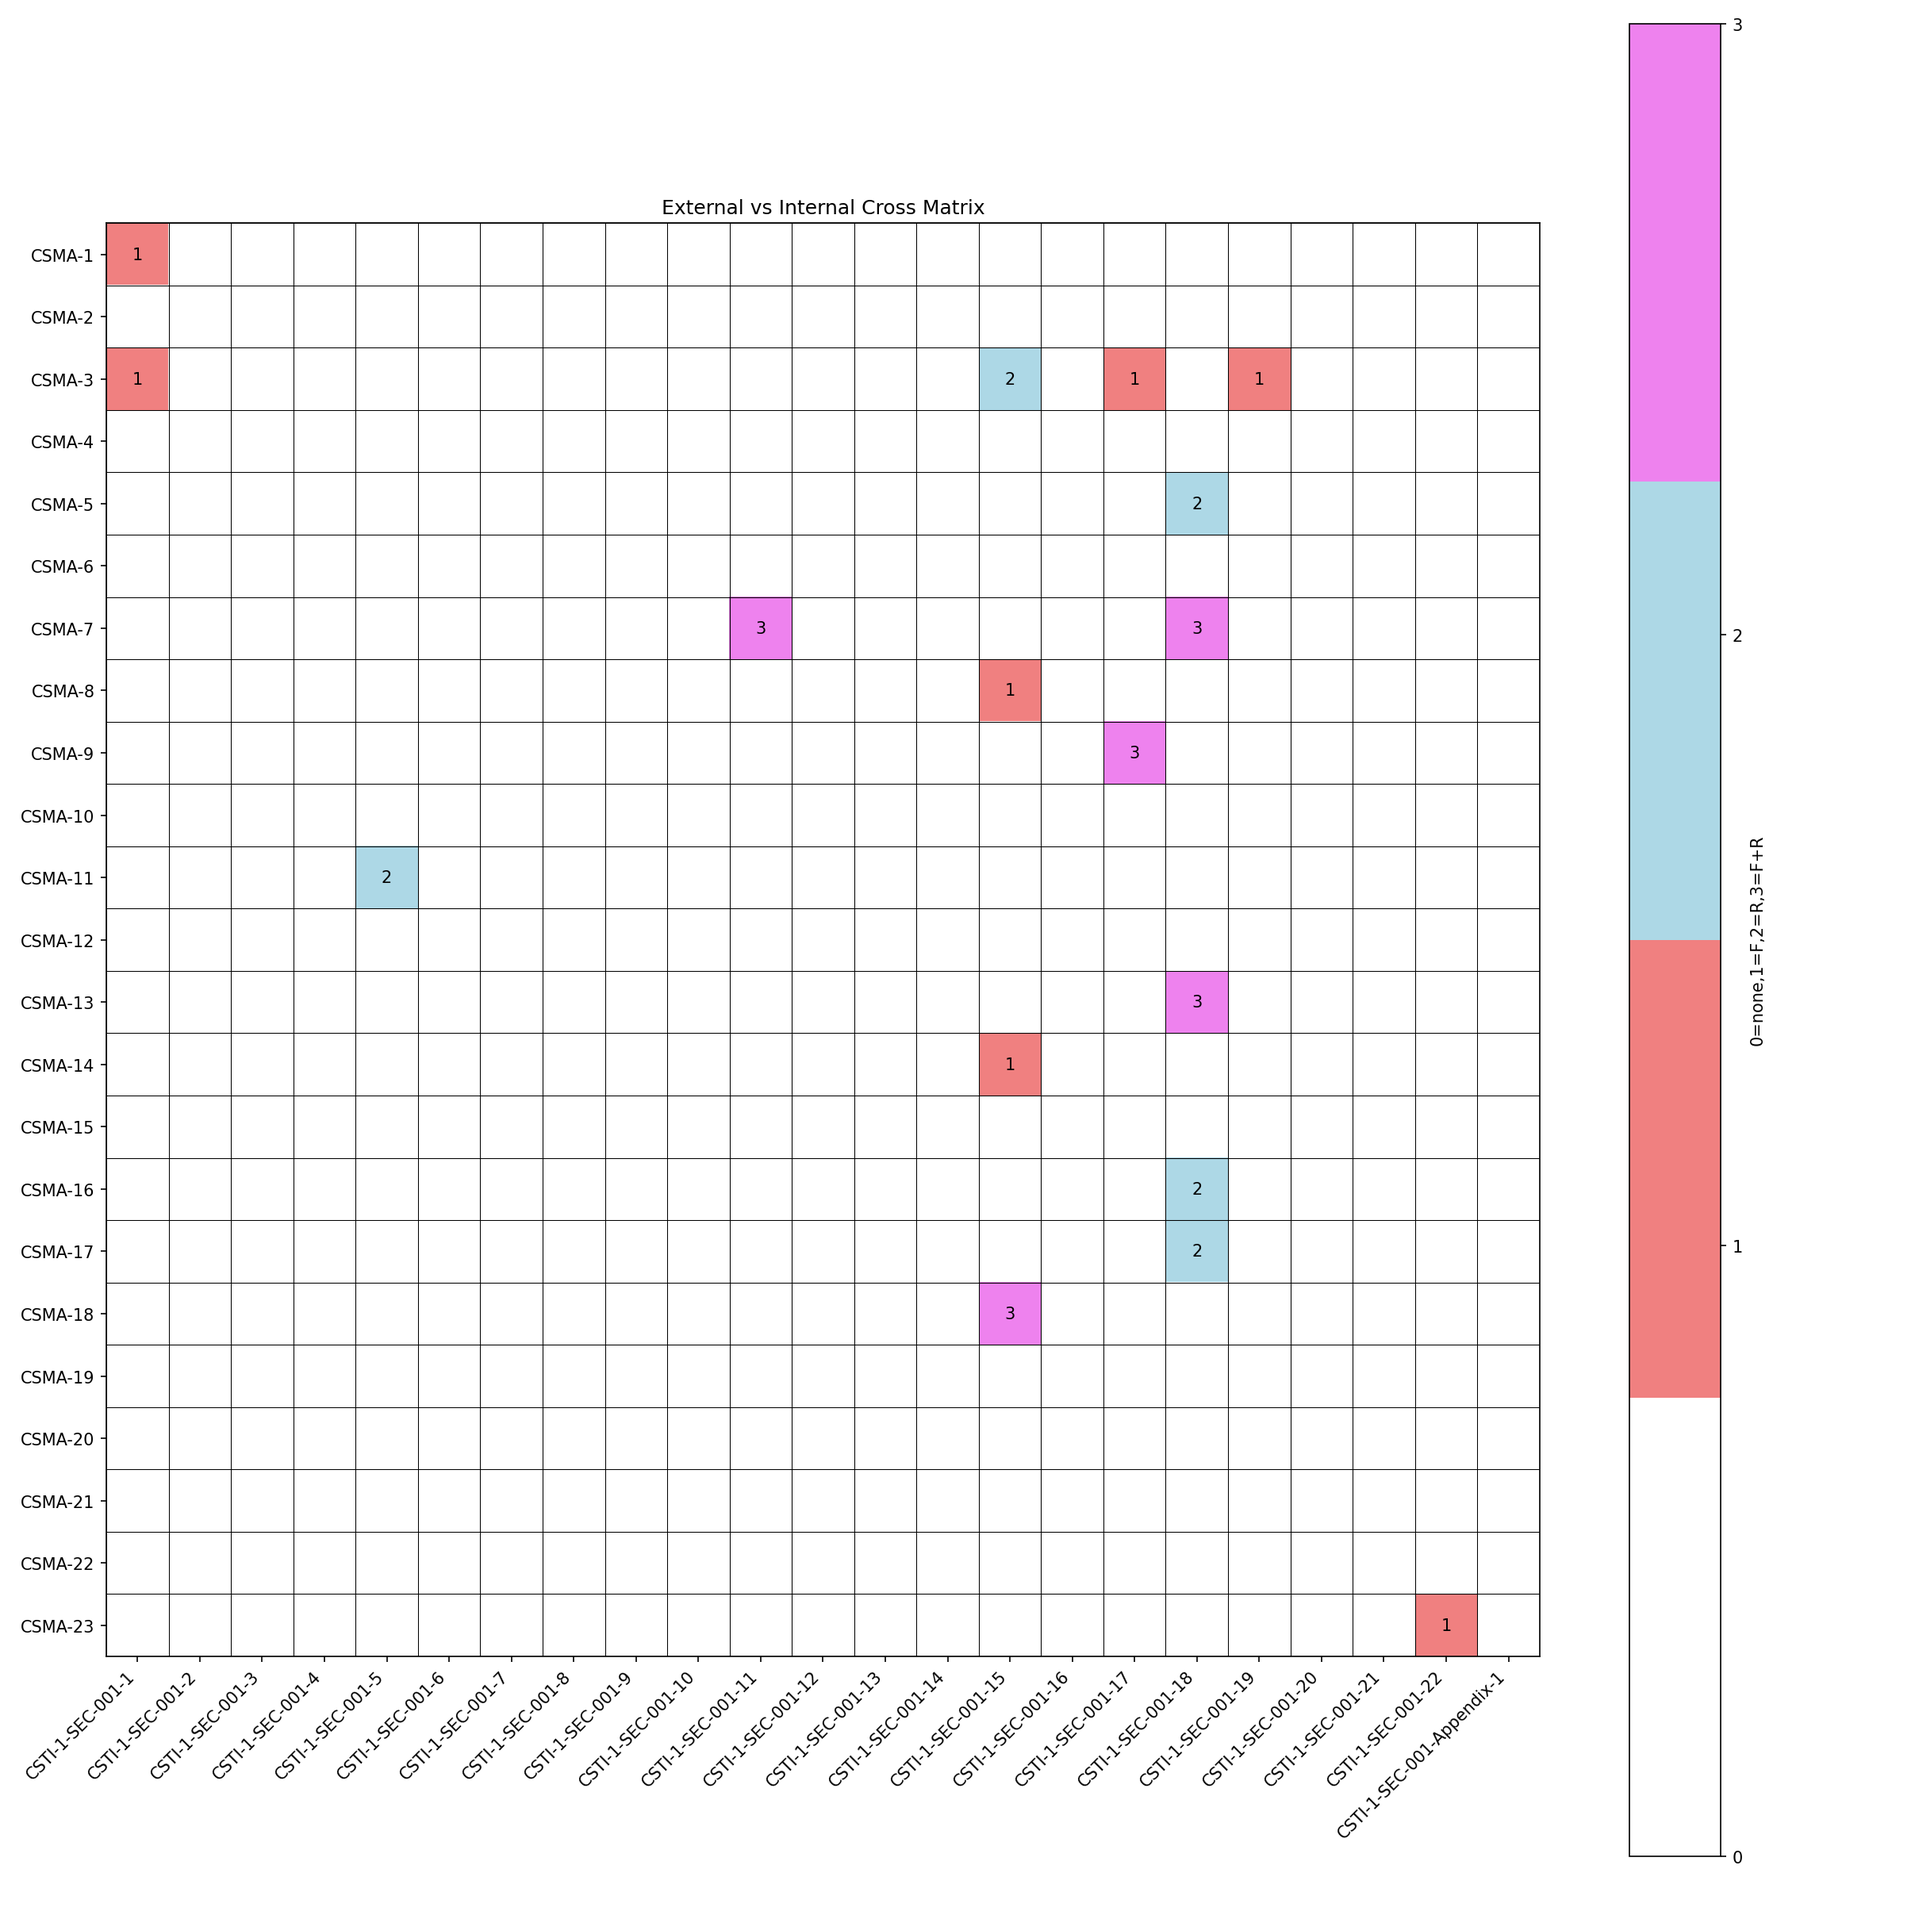
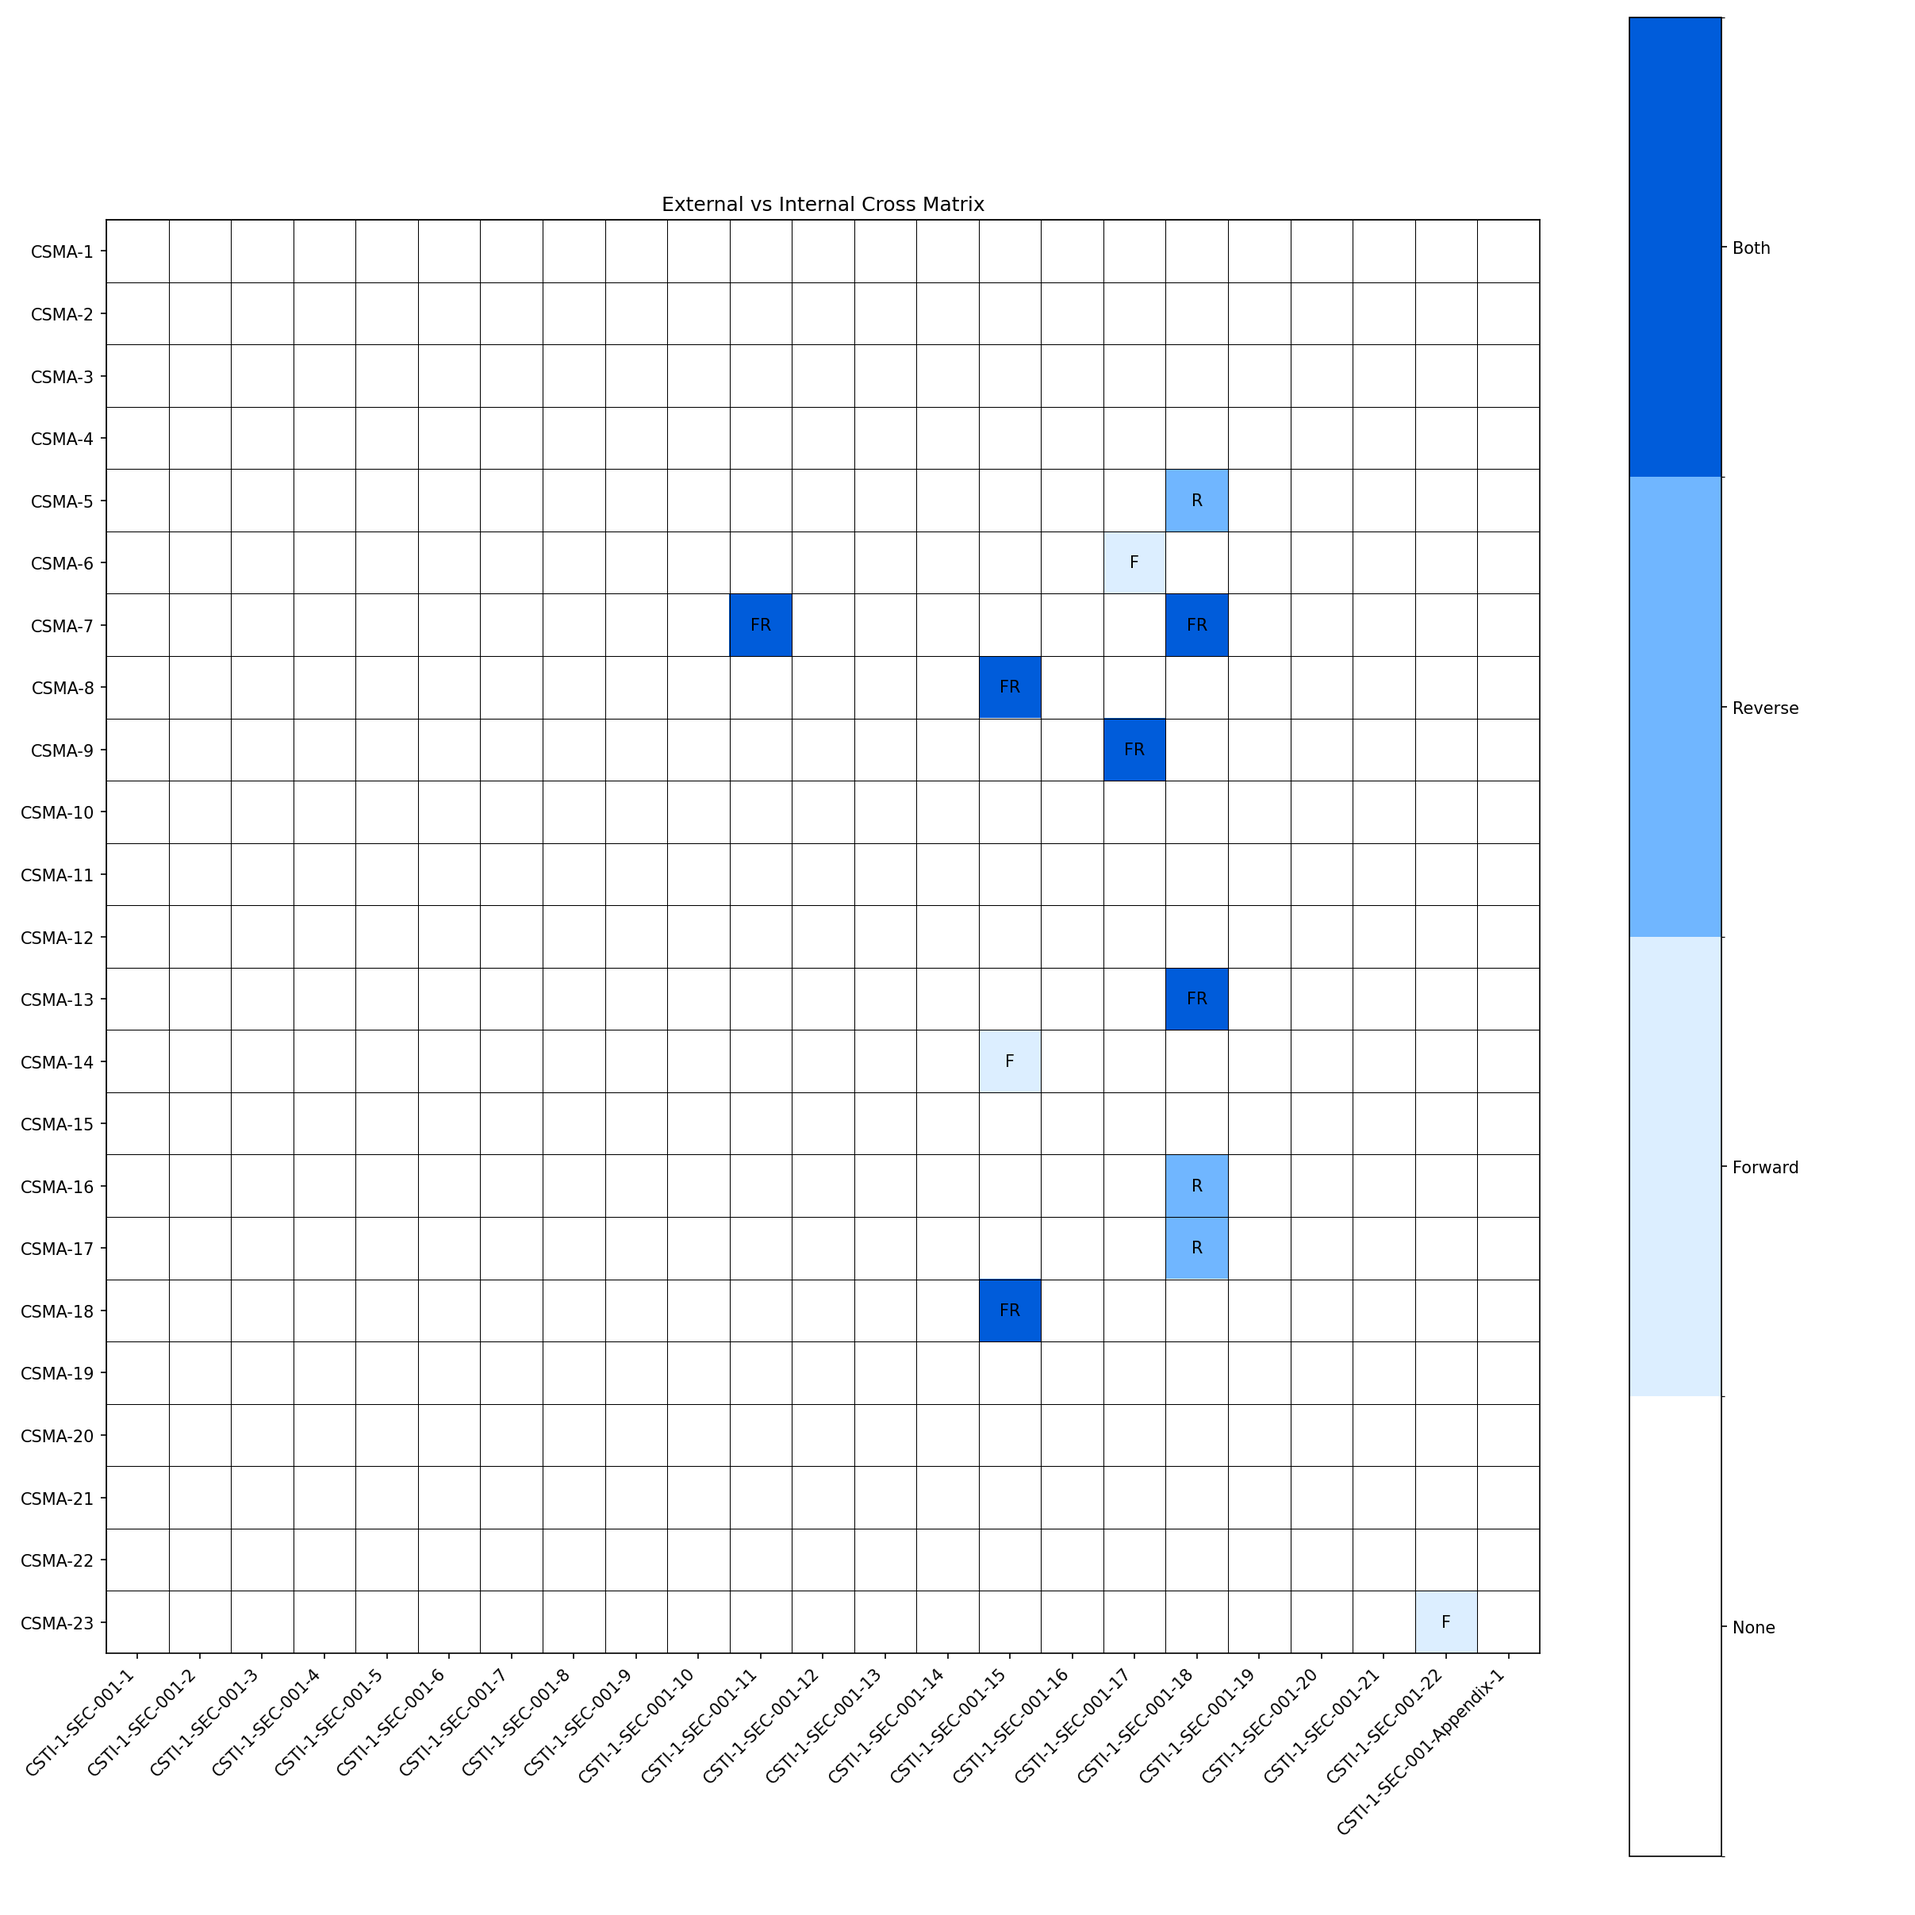
fix: evaluation method and similarity issue.

diff --git a/src/evaluation_utils.py b/src/evaluation_utils.py
@@ -4,8 +4,8 @@ import json
 import logging
 import matplotlib.pyplot as plt
 import numpy as np
+from matplotlib.colors import ListedColormap, BoundaryNorm
 import os
-from matplotlib.colors import ListedColormap
 
 logger = logging.getLogger(__name__)
 
@@ -124,46 +124,55 @@ def visualize_matrix(
     """
     用 matplotlib 產生彩色格子圖：
       0 = 沒有連結(白)
-      1 = only 外→內(紅)
-      2 = only 內→外(藍)
-      3 = both (紫)
-
-    並且加上明顯的網格線，方便對應.
+      1 = 外->內(Forward)
+      2 = 內->外(Reverse)
+      3 = 外->內 & 內->外(Both)
+    這裡選用同色系麥拉碰，依照深淺區分(白、淺藍、中藍、深藍)。
     """
 
     fig, ax = plt.subplots(figsize=(max(8, len(int_keys) * 0.7), max(6, len(ext_keys) * 0.7)))
 
-    # 自訂 color map
-    cmap = ListedColormap(["white", "lightcoral", "lightblue", "violet"])
-    cax = ax.imshow(matrix, cmap=cmap, aspect="equal", vmin=0, vmax=3)
+    # 自訂 color map (同色系深淺)
+    cmap = ListedColormap(["#FFFFFF", "#dceeff", "#70b6ff", "#005cda"])  # 白, 淺藍, 中藍, 深藍
+    # 設定每個區間的邊界，以對應0,1,2,3
+    bounds = [0, 1, 2, 3, 4]
+    norm = BoundaryNorm(bounds, cmap.N)
 
-    # 設置 ticks
+    # 用 imshow() 繪製矩陣
+    cax = ax.imshow(matrix, cmap=cmap, norm=norm, aspect="equal")
+
+    # 設置 X / Y 軸
     ax.set_xticks(np.arange(len(int_keys)))
     ax.set_yticks(np.arange(len(ext_keys)))
     ax.set_xticklabels(int_keys, rotation=45, ha="right")
     ax.set_yticklabels(ext_keys)
 
-    # 加網格
+    # 加網格線 (僅 minor ticks)
     ax.set_xticks(np.arange(-0.5, len(int_keys), 1), minor=True)
     ax.set_yticks(np.arange(-0.5, len(ext_keys), 1), minor=True)
     ax.grid(which='minor', color='black', linestyle='-', linewidth=0.5)
     ax.tick_params(which="minor", bottom=False, left=False)
 
-    # 填上數字(0,1,2,3 -> 可能可省, or 僅對>0)
+    # 在每個格子中央顯示文字：0=>空白, 1=>F, 2=>R, 3=>FR
+    label_map = {
+        0: "",
+        1: "F",
+        2: "R",
+        3: "FR"
+    }
     for i in range(len(ext_keys)):
         for j in range(len(int_keys)):
             val = matrix[i, j]
-            if val > 0:
-                ax.text(j, i, str(val), ha="center", va="center", color="black")
+            ax.text(j, i, label_map[val], ha="center", va="center", color="black")
 
-    # colorbar
-    cb = fig.colorbar(cax, ax=ax, ticks=[0, 1, 2, 3])
-    cb.set_label("0=none,1=F,2=R,3=F+R")
+    # 設置 colorbar (只顯示4個分段)
+    cb = fig.colorbar(cax, ax=ax, boundaries=bounds, ticks=[0.5, 1.5, 2.5, 3.5])
+    cb.ax.set_yticklabels(["None", "Forward", "Reverse", "Both"])  # 用文字描述
 
-    # Set title
+    # 圖表標題 (可自行調整)
     ax.set_title("External vs Internal Cross Matrix")
 
     plt.tight_layout()
     plt.savefig(out_png, dpi=150)
     logger.info(f"Matrix saved to {out_png}")
-    # plt.show()  # 如需視覺化時可開
+    # plt.show()  # 若需在本地測試視覺化，可把這行取消註解

diff --git a/src/services/fraud_rag_service.py b/src/services/fraud_rag_service.py
@@ -62,13 +62,13 @@ class FraudRAGService(BaseRAGService):
 
         guide = """
         {
-        "code": "7-16",
-        "label": "7-16假求職詐騙:高薪可預支薪水",
-        "evidence": "貼文中的欺詐關鍵字",
-        "confidence": 0.9,
-        "doc_id": "7-16",  
-        "start_idx": 10,
-        "end_idx": 15
+            "code": "7-16",
+            "label": "7-16假求職詐騙:高薪可預支薪水",
+            "evidence": "貼文中的欺詐關鍵字",
+            "confidence": 0.9,
+            "doc_id": "7-16",
+            "start_idx": 10,
+            "end_idx": 15
         }
         """
 
@@ -84,3 +84,22 @@ class FraudRAGService(BaseRAGService):
         if self._hit_blacklist(user_query):
             return '[{"label":"blacklist","evidence":"","confidence":1,"start_idx":-1,"end_idx":-1}]'
         return await super().generate_answer(user_query, filters)
+
+    def post_process(
+        self,
+        user_query: str,
+        raw_json: list[dict],
+        hits: List[dict]
+    ) -> list[dict]:
+        """
+        這裡覆寫父類別的 post_process：
+        若 LLM 忘了回傳 doc_id，就自動用 code 來補上 doc_id，
+        以便後續能對應 hits 拿到正確的 similarity_score。
+        """
+        for rec in raw_json:
+            if "doc_id" not in rec or not rec["doc_id"]:
+                # 若 LLM 沒包含 doc_id，就用 code 代替
+                rec["doc_id"] = rec.get("code", "")
+
+        # 呼叫父類別的 _default_post_process()，插入 similarity_score 等
+        return super().post_process(user_query, raw_json, hits)
